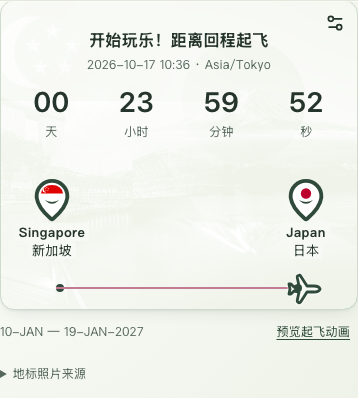
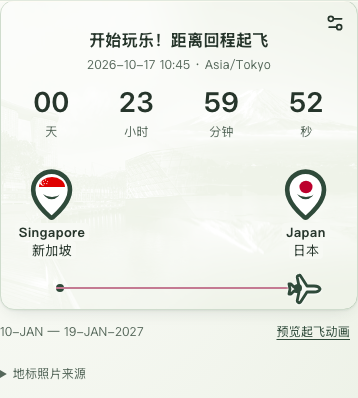
Use 60 percent landmark panels and enlarge country pins

diff --git a/src/components/FlightCountdown.module.css b/src/components/FlightCountdown.module.css
@@ -1,12 +1,10 @@
 .module { margin: 0 0 var(--space-2); width: 100%; min-width: 0; }
 .card { position: relative; isolation: isolate; min-height: 310px; overflow: hidden; border-radius: var(--radius-md); border: 1px solid var(--color-border); background: var(--color-surface-subtle); box-shadow: var(--shadow-card); color: var(--color-text); }
 .scenery { position: absolute; inset: 0; z-index: -1; pointer-events: none; filter: grayscale(1) contrast(1.2); opacity: 1; mix-blend-mode: overlay; }
-.leftImage, .rightImage { position: absolute; top: 0; bottom: 0; width: 64%; overflow: hidden; }
-.leftImage { left: 0; z-index: 1; -webkit-mask-image: linear-gradient(to right, black 56.25%, transparent); mask-image: linear-gradient(to right, black 56.25%, transparent); }
+.leftImage, .rightImage { position: absolute; top: 0; bottom: 0; width: 60%; overflow: hidden; }
+.leftImage { left: 0; z-index: 1; -webkit-mask-image: linear-gradient(to right, black 66.666667%, transparent); mask-image: linear-gradient(to right, black 66.666667%, transparent); }
 .rightImage { right: 0; }
 .landmark { width: 100%; height: 100%; object-fit: cover; opacity: 1; }
-.flag { position: absolute; top: 0; width: 100%; height: 65%; object-fit: cover; opacity: .3; mask-image: linear-gradient(to bottom, black 45%, transparent); }
-.leftImage .flag { left: 0; }.rightImage .flag { right: 0; }
 .information { position: relative; margin: 0 auto; padding: 28px 12px 122px; text-align: center; width: 100%; background: transparent; }
 .heading { font-size: var(--fs-section); font-weight: 700; margin: 0 24px 6px; }
 .date { font-size: var(--fs-caption); color: var(--color-text-2); margin: 0 12px 12px; overflow-wrap: anywhere; }
@@ -16,8 +14,8 @@
 .numbers span { font-size: var(--fs-caption); margin-top: 6px; color: var(--color-text-2); }
 .pin { position: absolute; bottom: 46px; display: flex; flex-direction: column; align-items: center; min-width: 92px; min-height: 80px; padding: 4px; border: 0; background: transparent; color: var(--color-text); cursor: pointer; font: inherit; border-radius: var(--radius-sm); }
 .pin strong, .pin > span:last-child { background: var(--color-surface-subtle); padding: 0 4px; border-radius: 4px; font-size: var(--fs-small); }
-.pinIcon { position: relative; height: 46px; color: var(--color-primary); }
-.pinIcon img { position: absolute; top: 8px; left: 12px; width: 22px; height: 17px; border-radius: 50%; object-fit: cover; }
+.pinIcon { position: relative; height: 55.2px; color: var(--color-primary); }
+.pinIcon img { position: absolute; top: 9.6px; left: 14.4px; width: 26.4px; height: 20.4px; border-radius: 50%; object-fit: cover; }
 .origin { left: 5px; }.destination { right: 5px; }
 .route { position: absolute; left: 55px; right: 55px; z-index: 3; pointer-events: none; bottom: 20px; border-top: 2px dashed var(--color-icon); height: 1px; }
 .route::before, .route::after { content: ''; position: absolute; top: -5px; width: 8px; height: 8px; border-radius: 50%; background: var(--color-primary); }
@@ -45,13 +43,11 @@
 .countryGrid img { width: 30px; height: 20px; object-fit: cover; }.countryGrid small { display: block; }.countryGrid button[aria-pressed=true] { background: var(--color-primary-soft); }.form .error { color: var(--color-warning-ink); }
 @media (min-width: 768px) {
   .card { min-height: 230px; }.information { width: 60%; min-height: 230px; padding: 24px 12px 46px; background: transparent; }
-  .leftImage, .rightImage { width: 64%; }.pin { bottom: 50px; }.origin { left: 20px; }.destination { right: 20px; }.route { left: 70px; right: 70px; bottom: 24px; }.numbers strong { font-size: 46px; }
+  .leftImage, .rightImage { width: 60%; }.pin { bottom: 50px; }.origin { left: 20px; }.destination { right: 20px; }.route { left: 70px; right: 70px; bottom: 24px; }.numbers strong { font-size: 46px; }
 }
 @media (prefers-reduced-motion: reduce) { .flying .aircraft, .flying .trail { animation: none; }.flying .aircraft { transform: translateX(100%); } }
 
 .credits { font-size: var(--fs-caption); color: var(--color-text-2); }.credits summary { cursor: pointer; min-height: 44px; padding-top: 12px; }.credits a { color: var(--color-primary); text-decoration: underline; }.credits ul { padding-left: 20px; overflow-wrap: anywhere; }
 
-/* Keep the original photo detail; only the crossfade between countries remains. */
-.blend { display: none; }
 .footer { display: flex; align-items: center; flex-wrap: wrap; gap: var(--space-2); font-size: var(--fs-caption); color: var(--color-text-2); }
 .preview { margin-left: auto; min-height: 44px; padding: 0 8px; color: var(--color-primary); text-decoration: underline; text-underline-offset: 3px; }

diff --git a/src/components/FlightCountdown.tsx b/src/components/FlightCountdown.tsx
@@ -12,9 +12,9 @@ import credits from '../../public/landing/flight-countdown/credits.json';
 
 const Scenery = memo(function Scenery({ origin, destination }: { origin: string; destination: string }) {
   const photographs = [origin, destination].map((code, i) => <div className={i ? s.rightImage : s.leftImage} key={i}>
-    {countryOf(code) && <><img className={s.landmark} src={asset(code, 'landmark')} alt="" /><img className={s.flag} src={asset(code, 'flag')} alt="" /></>}
+    {countryOf(code) && <img className={s.landmark} src={asset(code, 'landmark')} alt="" />}
   </div>);
-  return <div className={s.scenery} aria-hidden="true">{photographs}<div className={s.blend}>{photographs}</div></div>;
+  return <div className={s.scenery} aria-hidden="true">{photographs}</div>;
 });
 
 function Clock({ value, demo = false }: { value: FlightCountdownSettings; demo?: boolean }) {
@@ -130,7 +130,7 @@ export default function FlightCountdown({ td, dateRange, offline }: { td: TripDa
         const code = i ? destination : origin;
         const c = countryOf(code);
         return <button key={side} className={`${s.pin} ${i ? s.destination : s.origin}`} aria-label={i ? '修改目的地国家' : '修改出发国家'} onClick={() => {setDemo(undefined);setError('');setPick(side);}}>
-          <span className={s.pinIcon}><MapPin size={46} fill="var(--color-surface)" />{c && <img src={asset(code,'flag')} alt="" />}</span>
+          <span className={s.pinIcon}><MapPin size={55.2} fill="var(--color-surface)" />{c && <img src={asset(code,'flag')} alt="" />}</span>
           <strong>{c?.en ?? (i ? '目的地' : '出发地')}</strong><span>{c?.zh ?? '选择国家'}</span>
         </button>;
       })}

diff --git a/docs/flight-countdown/README.md b/docs/flight-countdown/README.md
@@ -42,3 +42,6 @@
 
 ## 背景 Overlay 调整（2026-10-16）
 按用户最新要求，恢复原图细节，去掉整体和中心的模糊，保留两国照片直接交叉融合。背景合成层使用 grayscale(1)、mix-blend-mode: overlay。CSS opacity 最大为 1，所述 120% 以 opacity: 1 + contrast(1.2) 呈现更强图像效果，并非可用的 120% opacity。Pin、正文和飞机不参与滤镜。此次仅改模块背景 CSS，未改数据或动画。
+
+## 照片占比与 Pin（2026-10-16）
+左右地标各占卡片宽度 60%，中间 40%–60% 为 20% 重叠交叉融合区。移除背景大国旗及旧的隐藏模糊副本，Pin 内国旗保留。Pin 图标和其国旗同比放大 20%（46px → 55.2px）。保持已确认的黑白 Overlay 配色。
